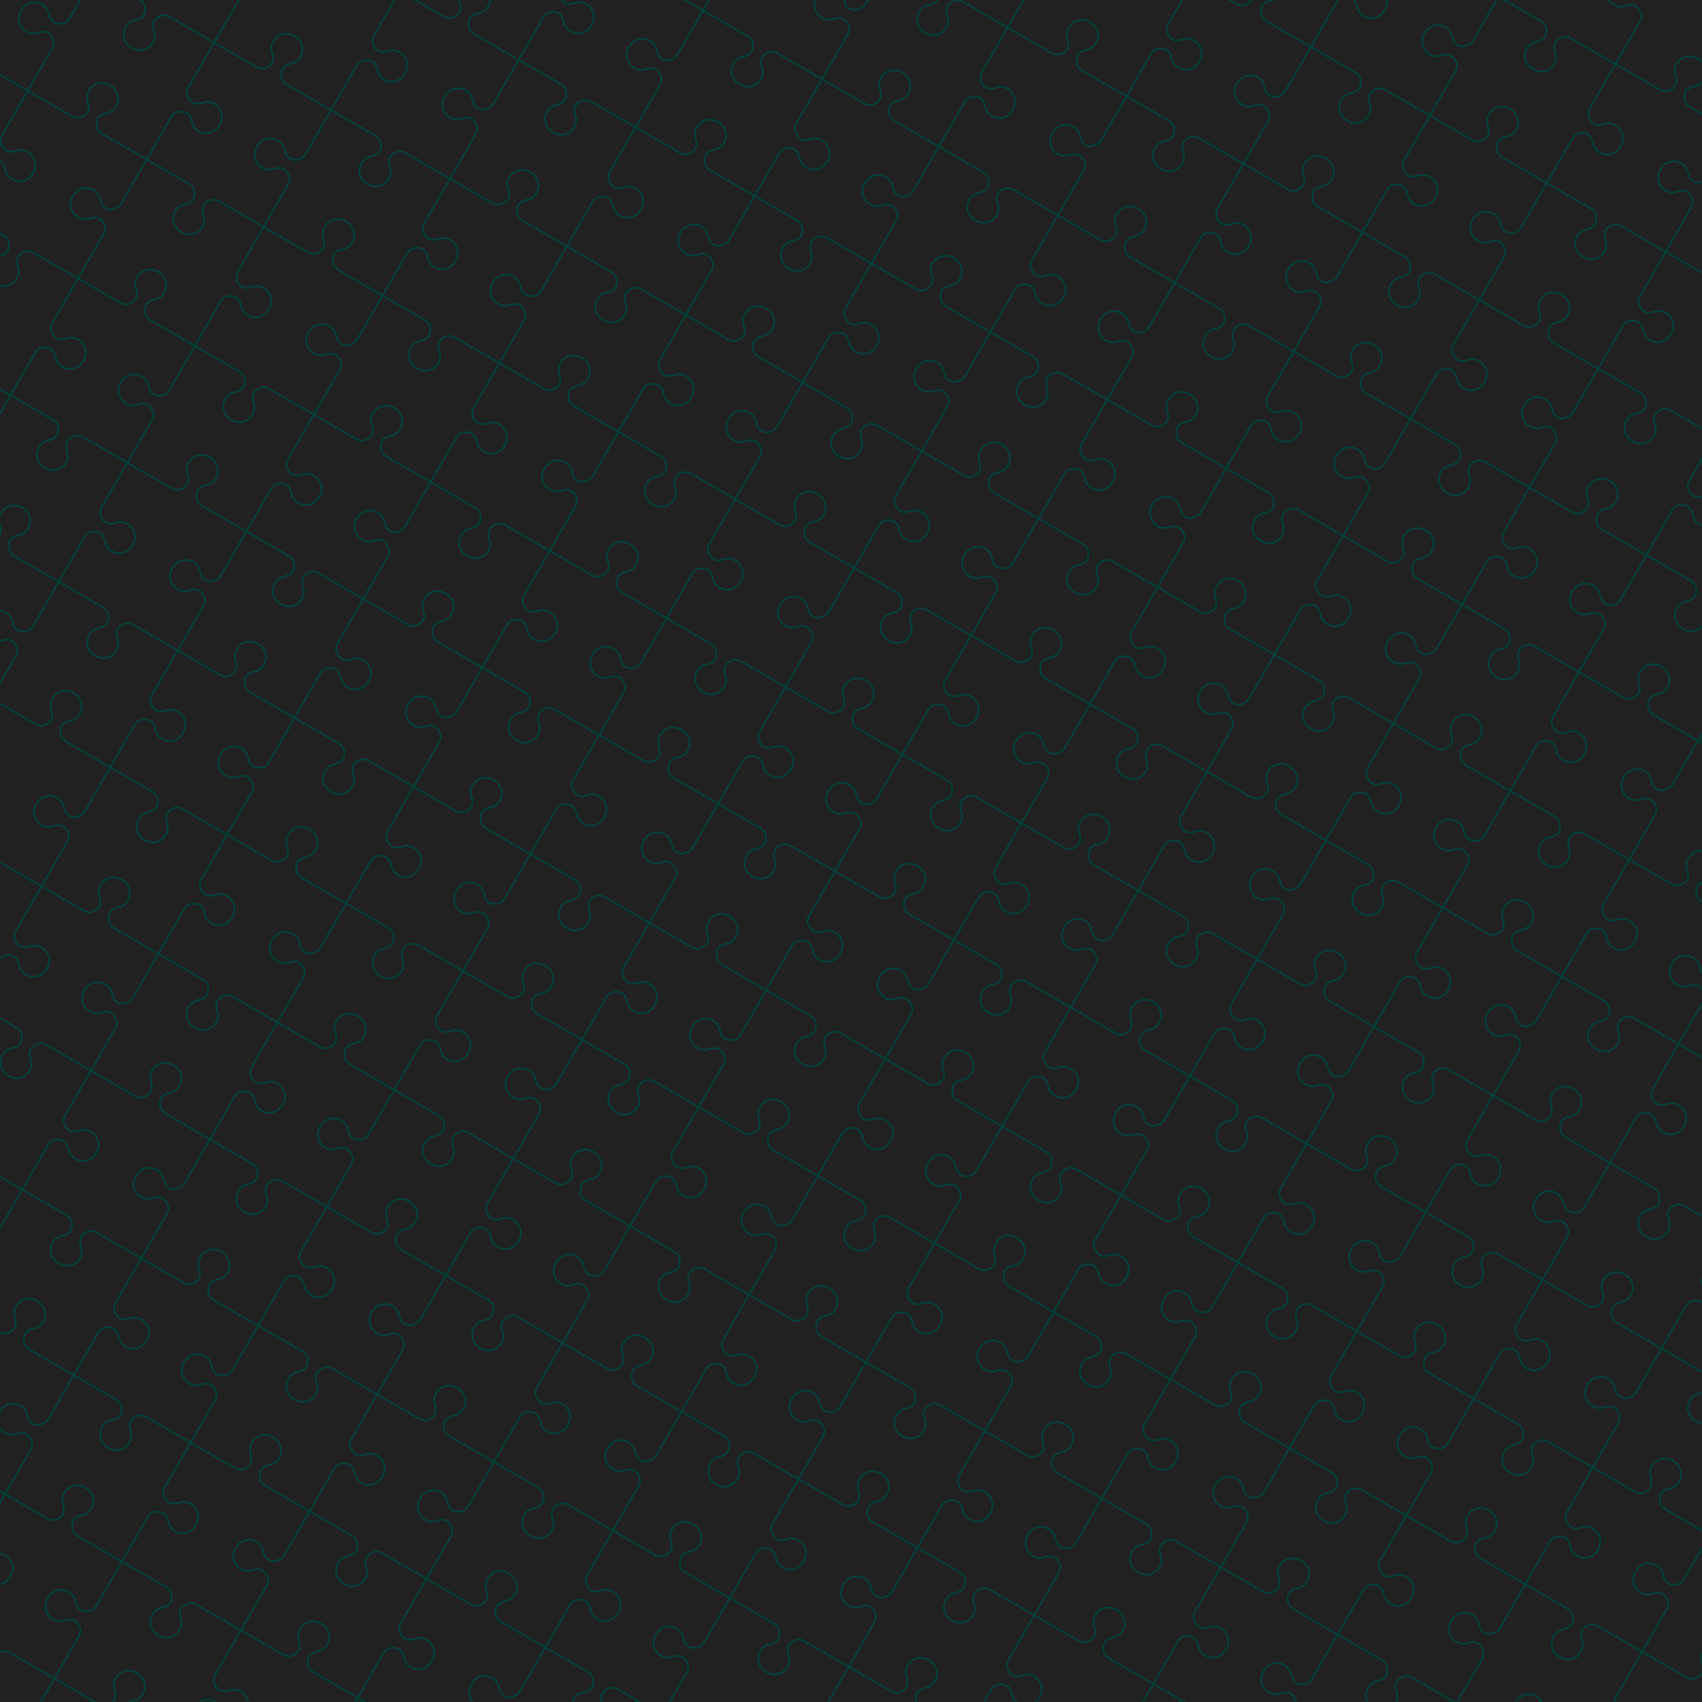
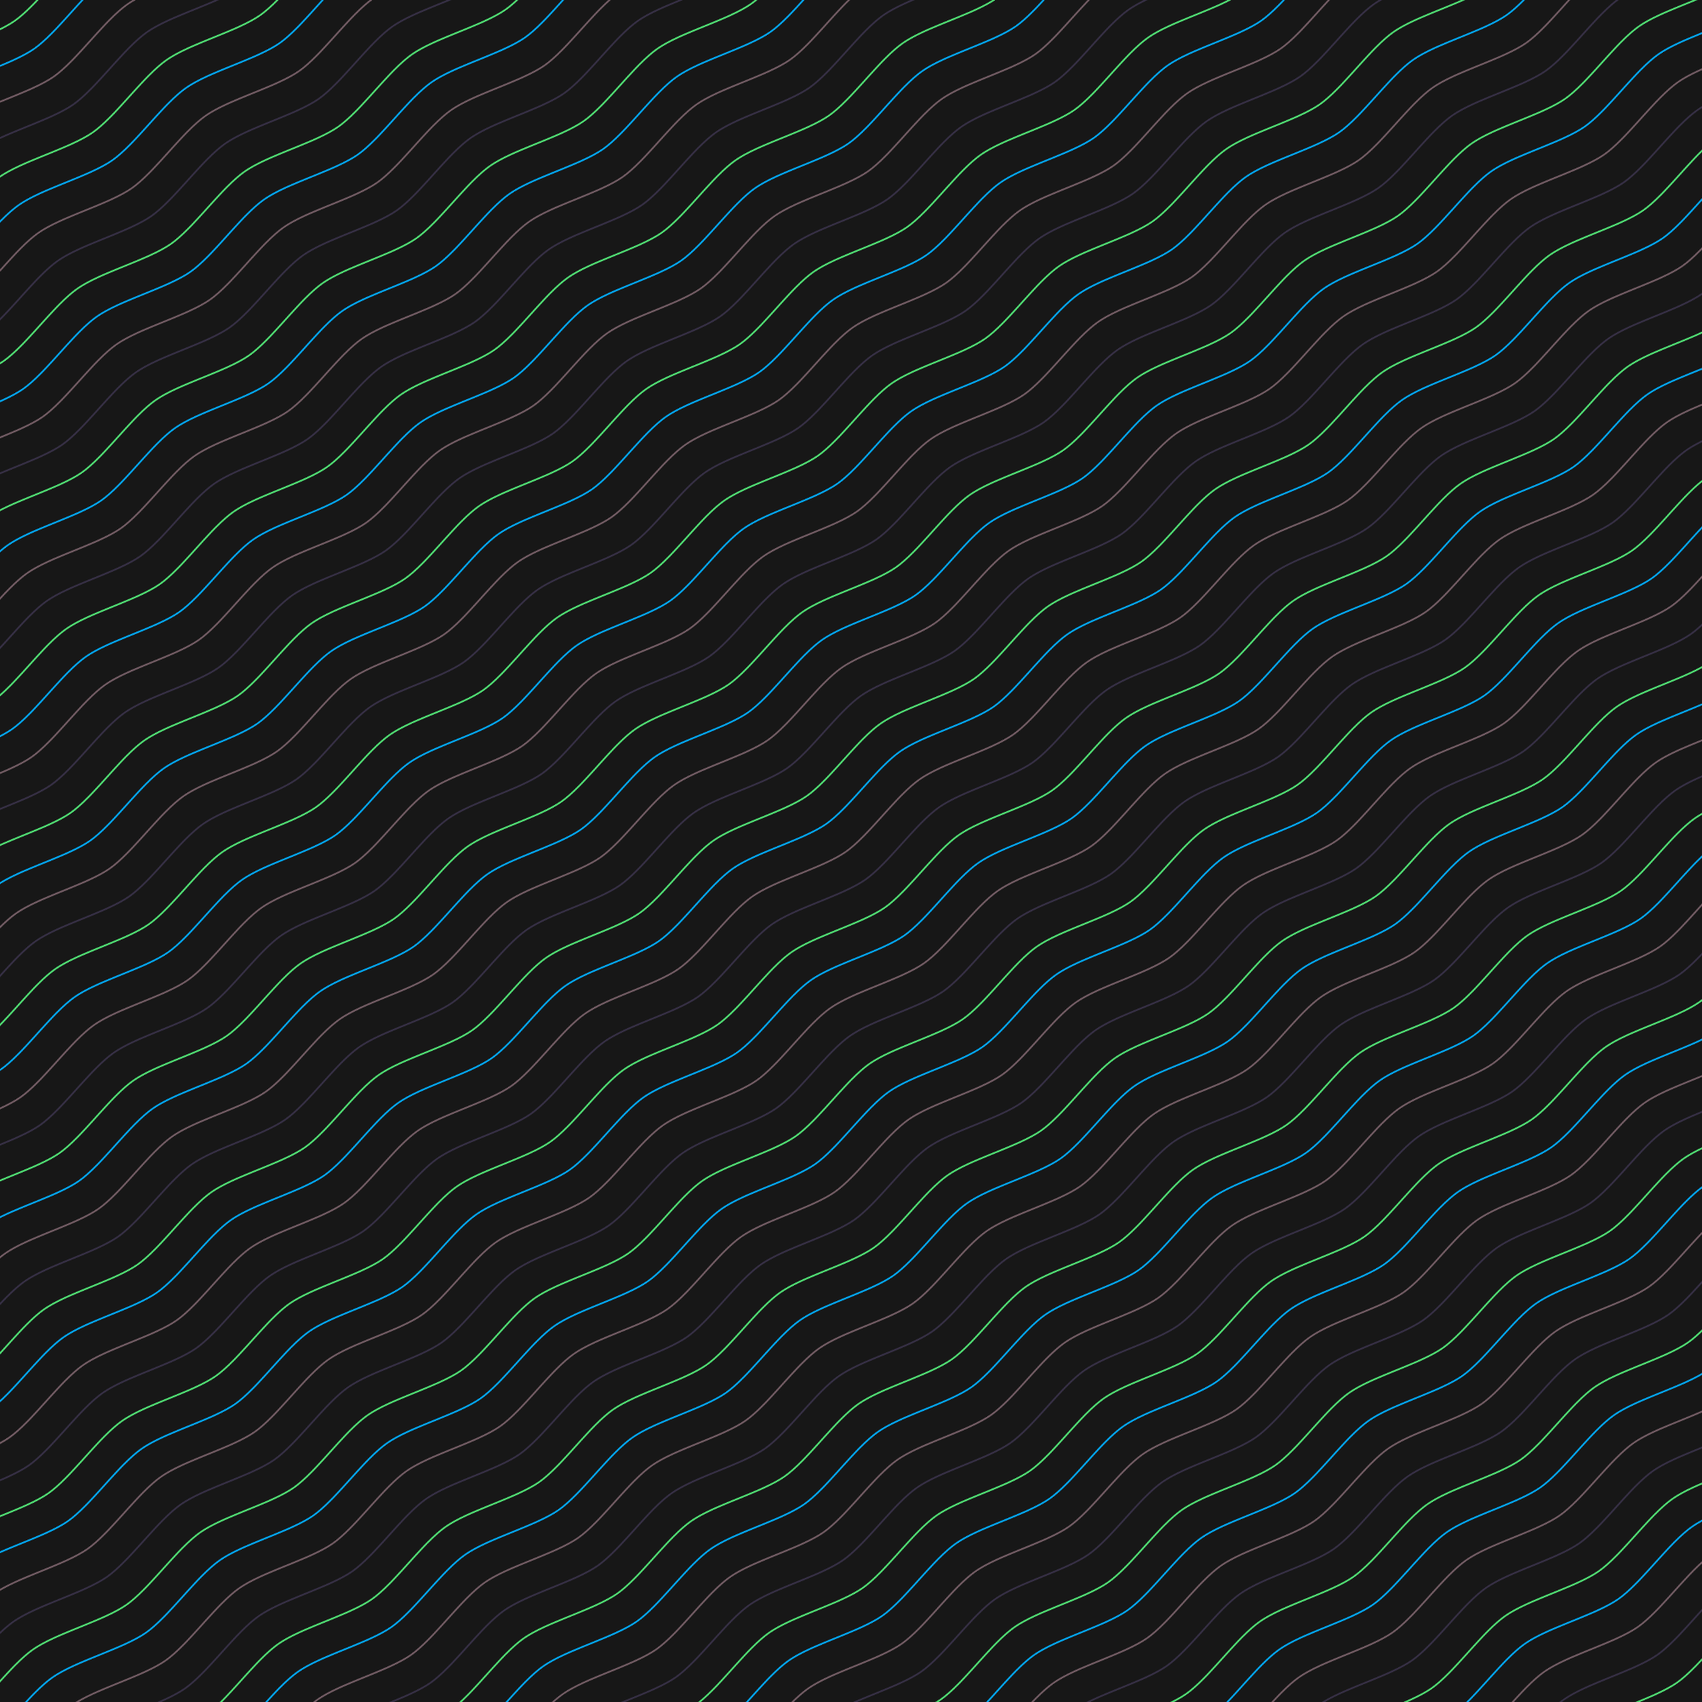
craeted new modal

diff --git a/components/AddProjectModal.tsx b/components/AddProjectModal.tsx
@@ -1,0 +1,195 @@
+import { addProject } from '@/helpers/addProject'
+import getInitialClient from '@/helpers/getClient'
+import getClient from '@/helpers/getUser'
+import { setStateBoolean } from '@/types/canvasTypes'
+import { Dialog, Transition } from '@headlessui/react'
+import { ID, Models, Query } from 'appwrite'
+import Image from 'next/image'
+import { useRouter } from 'next/router'
+import { Fragment, useState } from 'react'
+import { useQuery, useQueryClient } from 'react-query'
+
+type props = {
+    isOpen: boolean
+    setIsOpen: setStateBoolean
+}
+
+
+type inviationType = {
+    name: string,
+    email: string
+}
+
+
+export default function MyModal({ isOpen, setIsOpen }: props) {
+    const [loading, setLoading] = useState(false)
+    const [show, setShow] = useState<boolean>(false)
+    const [invitations, setInvitations] = useState<inviationType[]>([])
+    const [input, setInput] = useState<string>("")
+    const [projectId, setProjectId] = useState<string>("")
+    const [projectName, setProjectName] = useState<string>("")
+    const [searchResult, setSearchResult] = useState<any>([])
+    const queryClient = useQueryClient()
+    const { databases } = getInitialClient()
+    const [mode, setMode] = useState<"solo" | "collab">("solo")
+    const router = useRouter()
+    const closeModal = () => {
+        setProjectId("")
+        setInput("")
+        setInvitations([])
+        setIsOpen(false)
+    }
+
+
+
+    const { data } = useQuery("userData", () => getClient(), {
+        onError: () => router.push("/"),
+    })
+
+    const handleSubmission = async () => {
+        setLoading(true)
+        const res: { success: boolean, id?: string } = await addProject(projectName, data as Models.User<Models.Preferences>, mode)
+        if (res.success) {
+            if (mode === "solo") router.push(`projects/${res.id}`)
+            else {
+                setLoading(false)
+                setShow(true)
+                setProjectId(res.id as string)
+                setLoading(false)
+            }
+            queryClient.invalidateQueries('projects')
+        }
+        else alert("Some Error Occured")
+        
+
+    }
+
+    const searchUser = (email: string) => {
+        setInput(email)
+        databases.listDocuments(process.env.NEXT_PUBLIC_APPWRITE_DB as string, process.env.NEXT_PUBLIC_APPWRITE_DB_USERS_COLLN as string, [Query.search("email", email)])
+            .then(d => setSearchResult(d.documents))
+            .catch(err => console.log(err))
+
+    }
+
+    const sendInvitation = (email: string, name: string) => {
+        databases.createDocument(process.env.NEXT_PUBLIC_APPWRITE_DB as string, "6475fafb1adfd9a909c5", ID.unique(), {
+            from: data?.email,
+            to: email,
+            from_name: data?.name,
+            project_name: projectName,
+            project_id: projectId
+        })
+            .then(d => {
+                console.log(d)
+                setSearchResult([])
+                setInput("")
+                setInvitations(((invitations) => [...invitations, { name, email }]))
+            })
+            .catch(err => console.log(err))
+    }
+
+    return (
+        <>
+            <Transition appear show={isOpen} as={Fragment}>
+                <Dialog as="div" className="relative z-10" onClose={closeModal}>
+                    <Transition.Child
+                        as={Fragment}
+                        enter="ease-out duration-300"
+                        enterFrom="opacity-0"
+                        enterTo="opacity-100"
+                        leave="ease-in duration-200"
+                        leaveFrom="opacity-100"
+                        leaveTo="opacity-0"
+                    >
+                        <div className="fixed inset-0 bg-black backdrop-blur-sm bg-opacity-25" />
+                    </Transition.Child>
+
+                    <div className="fixed bg-black/30 inset-0 drop-shadow-xl overflow-y-auto">
+                        <div className="flex min-h-full items-center justify-center p-4 text-center">
+                            <Transition.Child
+                                as={Fragment}
+                                enter="ease-out duration-300"
+                                enterFrom="opacity-0 scale-95"
+                                enterTo="opacity-100 scale-100"
+                                leave="ease-in duration-200"
+                                leaveFrom="opacity-100 scale-100"
+                                leaveTo="opacity-0 scale-95"
+                            >
+                                <Dialog.Panel className="w-full max-w-md trans transform overflow-hidden rounded-2xl bg-[#252525] text-white p-6 text-left align-middle shadow-xl transition-all">
+                                    <div>
+                                        <div className="grid w-full h-[200px] rounded-xl bg-white/20 grid-cols-2 overflow-hidden p-1 gap-2 ">
+                                            <div onClick={() => setMode("solo")} className={`h-full ${mode === "solo" ? "primary-gradient" : ""} selection-box`}>
+                                                <p>Solo</p>
+                                                <Image src="/solo.png" height={170} width={170} className="absolute bottom-0 right-0 z-0" alt={"human"} />
+
+                                            </div>
+                                            <div onClick={() => setMode("collab")} className={`h-full ${mode === "collab" ? "primary-gradient" : ""} selection-box`}>
+                                                <p>Collab</p>
+                                                <Image src="/collab2.png" height={150} width={150} className="absolute bottom-0 right-0 z-0" alt={"humans"} />
+
+                                            </div>
+
+                                        </div>
+                                    </div>
+
+                                    {mode === "solo" ? (
+                                        <>
+
+                                            <input value={projectName} onChange={(e) => setProjectName(e.target.value)} type="text" className='p-2 text-lg px-3 font-medium bg-black/10 w-full my-4 rounded-md' placeholder='Project Name' />
+                                            <button onClick={() => handleSubmission()} disabled={projectName.length === 0} className='bg-black/10 rounded-md p-3 grid place-items-center  w-full font-medium hover:bg-white trans text-white hover:text-black'>
+                                                {loading ? (<img src="/loading.gif" className='w-7 h-7' alt="loading" />) : "Get Started"}
+                                            </button>
+                                        </>
+                                    ) : (
+                                        <>
+
+                                            <input disabled={show} value={projectName} onChange={(e) => setProjectName(e.target.value)} type="text" className='p-2 text-lg px-3 font-medium bg-black/10 w-full my-4 rounded-md' placeholder='Project Name' />
+                                            <button onClick={() => handleSubmission()} disabled={projectName.length === 0} className={`bg-black/10 rounded-md p-3 grid place-items-center  w-full font-medium hover:bg-white trans text-white hover:text-black ${show ? "hidden" : ""}`}>
+                                                {loading ? (<img src="/loading.gif" className='w-7 h-7' alt="loading" />) : "Get Started"}
+                                            </button>
+                                            {show ? (
+                                                <>
+                                                 
+                                                    <input value={input} onChange={(e) => searchUser(e.target.value)} type="text" className='p-2 text-lg px-3 font-medium bg-black/10 w-full mb-2 rounded-md' placeholder='Collaborator Email' />
+
+
+
+                                                    {searchResult.length !== 0 ? <div className='w-full rounded-xl bg-white/20 max-h-[300px] p-1  mt-3 overflow-auto'>
+                                                        {searchResult.map((x: any, i: number) => {
+                                                            return (
+                                                                <div onClick={() => sendInvitation(x.email, x.name)} key={i} className='first:mt-3 flex p-4 trans hover:primary-gradient  hover:text-black rounded-xl cursor-pointer items-center justify-between'>
+                                                                    <p>{x.email}</p>
+                                                                    <p className='font-semibold'>{x.name}</p>
+                                                                </div>
+                                                            )
+                                                        })}
+                                                    </div> : (<></>)
+                                                    }
+
+{
+                                                        invitations.map((x: { name: string, email: string }) => {
+                                                            return (
+                                                                <div key={x.email} className='bg-white w-full flex items-center my-2 rounded-md p-2 text-black font-semibold '>{x.email} <p className='ml-2 text-sm font-normal'>(Invitaion sent)</p></div>
+                                                            )
+                                                        })
+                                                    }
+
+                                                    <button onClick={() => router.push(`projects/${projectId}`)} disabled={invitations.length === 0} className='bg-black/10 rounded-md p-3 grid place-items-center  w-full font-medium hover:bg-white trans text-white hover:text-black'>
+                                                        {loading ? (<img src="/loading.gif" className='w-7 h-7' alt="loading" />) : "Get Started"}
+                                                    </button>
+
+                                                </>
+                                            ) : (<></>)}
+                                        </>
+                                    )}
+
+                                </Dialog.Panel>
+                            </Transition.Child>
+                        </div>
+                    </div>
+                </Dialog>
+            </Transition>
+        </>
+    )
+}

diff --git a/components/Projects.tsx b/components/Projects.tsx
@@ -3,7 +3,7 @@ import deleteProject from '@/helpers/deleteProjects'
 import getInitialClient from '@/helpers/getClient'
 import { Account, Client, Databases, Models, Query } from 'appwrite'
 import Link from 'next/link'
-import React, { useEffect } from 'react'
+import React, { useEffect, useState } from 'react'
 import { BsFillTrash2Fill } from 'react-icons/bs'
 import { RxCross2 } from 'react-icons/rx'
 import { useQuery, useQueryClient } from 'react-query'
@@ -34,7 +34,6 @@ const Projects = ({ show, setShow }: propTypes) => {
     const userData: any = queryClient.getQueryData("userData")
 
 
-
     const { data: projects, error, isLoading } = useQuery<(Models.Document)[]>("projects", () => getProjects(databases, userData["$id"]))
 
     if(isLoading){
@@ -43,7 +42,8 @@ const Projects = ({ show, setShow }: propTypes) => {
         )
     }
     return (
-        <section className='my-[3rem] pb-[1.75rem] bg-white/10 p-6 bg-[url("/pattern2.png")]   rounded-lg drop-shadow-xl'>
+        <section className='my-[3rem] pb-[1.75rem] bg-white/10 p-6 bg-[url("/wave.svg")] bg-cover bg-no-repeat  rounded-lg drop-shadow-xl'>
+            <div className=" absolute z-[-999] bg-black/20 inset-0"></div>
             <h2 className='text-xl font-semibold'>Your Drawing Boards</h2>
             <div className='flex flex-wrap items-center gap-6 mt-8'>
                 {!error && projects?.map((x) =>

diff --git a/components/Dashboard.tsx b/components/Dashboard.tsx
@@ -10,13 +10,16 @@ import AddProject from './AddProject'
 import getClient from '@/helpers/getUser'
 import getInitialClient from '@/helpers/getClient'
 import Loading from './Loading'
+import AddProjectModal from './AddProjectModal'
 
 
 
 
 const Dashboard = () => {
     const router = useRouter()
-    const [show, setShow] = useState<boolean>(false)
+    // const [show, setShow] = useState<boolean>(false)
+    let [isOpen, setIsOpen] = useState<boolean>(false)
+
     const queryClient = useQueryClient()
     // const projects : any= queryClient.getQueryData("projects")
     const {client, account, databases} = getInitialClient()
@@ -54,8 +57,9 @@ const Dashboard = () => {
     
                 </div>
        
-                <Projects show = {show} setShow = {setShow} />
-                <AddProject show = {show} setShow = {setShow} />
+                <Projects show = {isOpen} setShow = {setIsOpen} />
+                {/* <AddProject show = {show} setShow = {setShow} /> */}
+                <AddProjectModal setIsOpen={setIsOpen} isOpen = {isOpen}/>
   
             </section>
         </main>

diff --git a/helpers/addProject.ts b/helpers/addProject.ts
@@ -1,0 +1,27 @@
+import { ID, Models } from "appwrite"
+import getInitialClient from "./getClient"
+import { UserPreferences } from "typescript"
+
+export const addProject = (projectName: string, data: Models.User<Models.Preferences>, mode: 'solo' | 'collab') => {
+
+    const { databases } = getInitialClient()
+    const project_id = ID.unique()
+    const creation = databases.createDocument(process.env.NEXT_PUBLIC_APPWRITE_DB as string, process.env.NEXT_PUBLIC_APPWRITE_DB_PROJECTS_COLLN as string, project_id, {
+        admin: data?.email,
+        users: [data["$id"]],
+        name: projectName
+    })
+        .then(d => {
+            if (mode !== "solo") {
+                databases.createDocument(process.env.NEXT_PUBLIC_APPWRITE_DB as string, process.env.NEXT_PUBLIC_APPWRITE_DB_CHATS as string, ID.unique(), {
+                    project_id: d["$id"]
+                })
+            }
+            return {id:d["$id"],success:true}
+        })
+        .catch(err => {
+            console.log(err)
+            return {success:false}
+        })
+    return creation
+}

diff --git a/components/Chat.tsx b/components/Chat.tsx
@@ -21,7 +21,7 @@ const Chat = ({id}:{id:string}) => {
     const [chatId, setChatId] = useState<string>("")
     const [msg,setMsg] = useState<string>("")
     const {client} = getInitialClient()
-    const { error: chatError, isLoading:chatIsLoading} = useQuery("chats", ()=>getChats(id as string),{
+    const { isError, isLoading:chatIsLoading} = useQuery("chats", ()=>getChats(id as string),{
         onSuccess(data) {
             if (data.documents.length>0) {
                 console.log(data.documents)
@@ -52,7 +52,7 @@ const Chat = ({id}:{id:string}) => {
 if(chatIsLoading) return(
     <div className='w-screen h-screen'><Loading /></div>
   )
-   
+   if(!isError && chats)
     return (
         <div className='w-[25%] h-screen hidden xl:flex items-center px-5  '>
         <div className='w-full flex flex-col rounded-md drop-shadow-2xl h-[calc(100%-2rem)] relative overflow-hidden text-white  bg-black/50'>

diff --git a/components/Canvas.tsx b/components/Canvas.tsx
@@ -94,7 +94,7 @@ const Canvas = ({ color, projectData, data }: props) => {
             </Link>
 
             <div ref = {textBoxRef} className={`absolute ${displayText}`}>
-                <input type="text" className={`text-xl bg-transparent placeholder:text-white/80 placeholder:text-bold text-white`}  ref = {textInputRef} placeholder="Enter text" />
+                <input id = "textInput" type="text" className={`text-xl bg-transparent placeholder:text-white/80 placeholder:text-bold text-white`}  ref = {textInputRef} placeholder="Click to type" />
             </div>
 
             <canvas

diff --git a/helpers/canvasFunctions.ts b/helpers/canvasFunctions.ts
@@ -76,9 +76,9 @@ export const startDrawing = (
 
                 textbox.style.left = x + 'px';
                 textbox.style.top = y + 'px';
-
                 if (textInput) {
-                    textInput.focus();
+                    console.log(textInput)
+                    textInput.focus()
                     textInput.addEventListener('blur', blurListener(textInput, context, color, setDisplayText, lastX, lastY) as any);
                     textInput.removeEventListener('blur', blurListener(textInput, context, color, setDisplayText, lastX, lastY) as any)
                 }

diff --git a/styles/globals.css b/styles/globals.css
@@ -31,8 +31,13 @@ body{
 .primary-gradient{
 @apply bg-gradient-to-r from-green-400 to-yellow-300 
 }
+.text-gradient{
+@apply text-transparent primary-gradient bg-clip-text}
 .sec-gradient{
 @apply bg-gradient-to-r from-purple-500 via-purple-400 to-white 
+}
+.selection-box{
+@apply w-full relative trans cursor-pointer p-4  text-black/60 font-semibold  text-xl rounded-md;
 }
 .trans{
 @apply transition-all duration-200;
